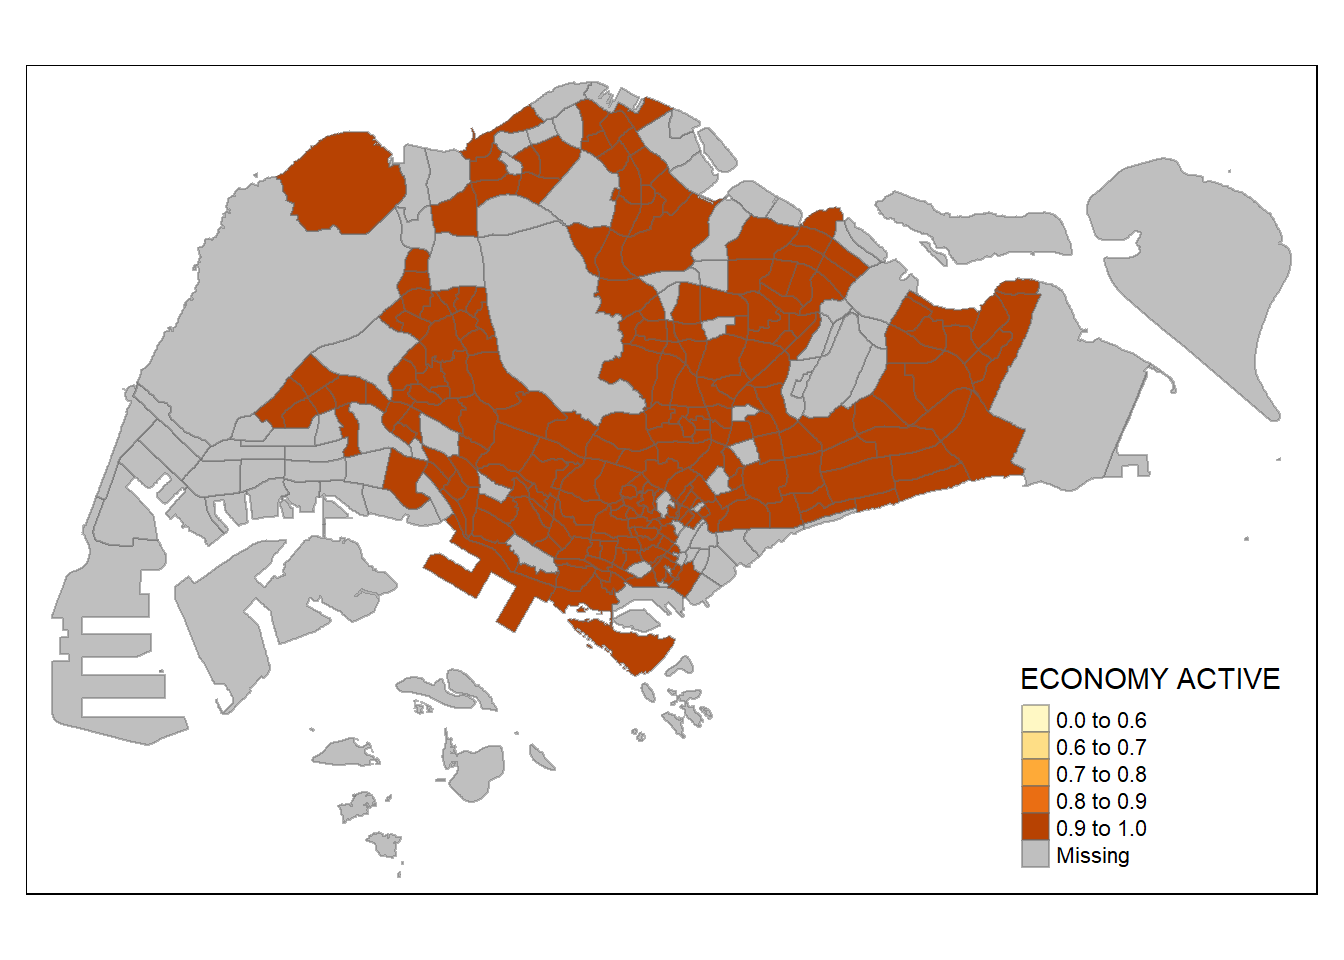
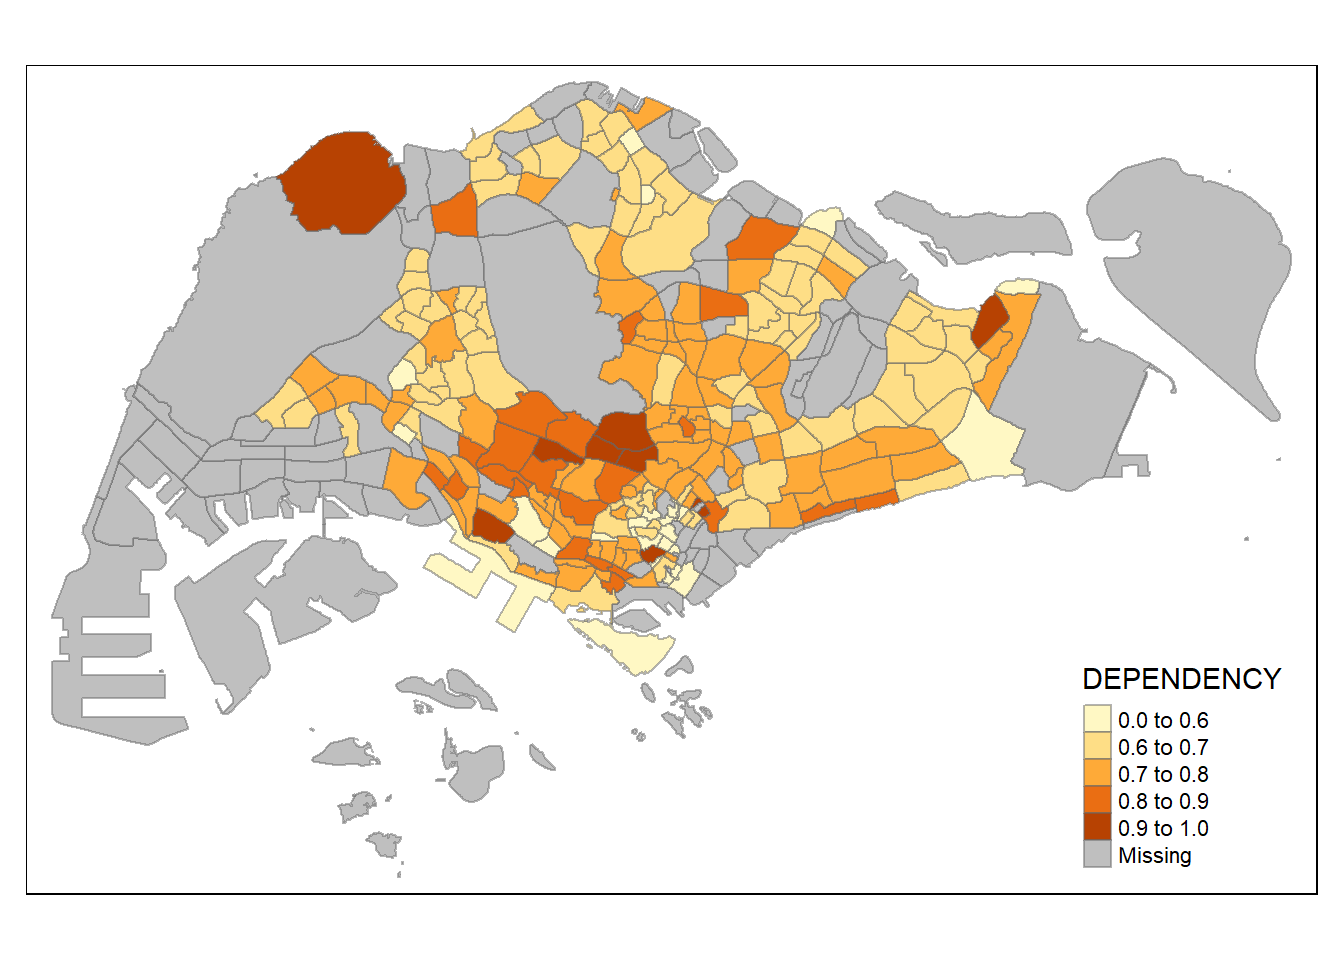
caa 21 nov 0749h

Changed region(s): [[0.1875, 0.0938, 0.7812, 0.7188], [0.75, 0.6875, 0.9688, 0.9062]]

diff --git a/_site/Hands-On_Ex/Hands-On_Ex1/Hands-On_Ex1B.html b/_site/Hands-On_Ex/Hands-On_Ex1/Hands-On_Ex1B.html
@@ -539,7 +539,7 @@ dbl (2): Pop, Time
 Setting break points at 0.6, 0.7, 0.8, 0.9, min and max at 0 and 1</p>
 <div class="cell">
 <div class="sourceCode cell-code" id="cb26"><pre class="sourceCode r code-with-copy"><code class="sourceCode r"><span id="cb26-1"><a href="#cb26-1" aria-hidden="true" tabindex="-1"></a><span class="fu">tm_shape</span>(mpsz_pop2020)<span class="sc">+</span></span>
-<span id="cb26-2"><a href="#cb26-2" aria-hidden="true" tabindex="-1"></a>  <span class="fu">tm_fill</span>(<span class="st">"ECONOMY ACTIVE"</span>,</span>
+<span id="cb26-2"><a href="#cb26-2" aria-hidden="true" tabindex="-1"></a>  <span class="fu">tm_fill</span>(<span class="st">"DEPENDENCY"</span>,</span>
 <span id="cb26-3"><a href="#cb26-3" aria-hidden="true" tabindex="-1"></a>          <span class="at">breaks =</span> <span class="fu">c</span>(<span class="dv">0</span>, <span class="fl">0.6</span>, <span class="fl">0.7</span>, <span class="fl">0.8</span>, <span class="fl">0.9</span>, <span class="dv">1</span>))<span class="sc">+</span></span>
 <span id="cb26-4"><a href="#cb26-4" aria-hidden="true" tabindex="-1"></a>  <span class="fu">tm_borders</span>(<span class="at">alpha =</span> <span class="fl">0.5</span>)</span></code><button title="Copy to Clipboard" class="code-copy-button"><i class="bi"></i></button></pre></div>
 <div class="cell-output cell-output-stderr">
